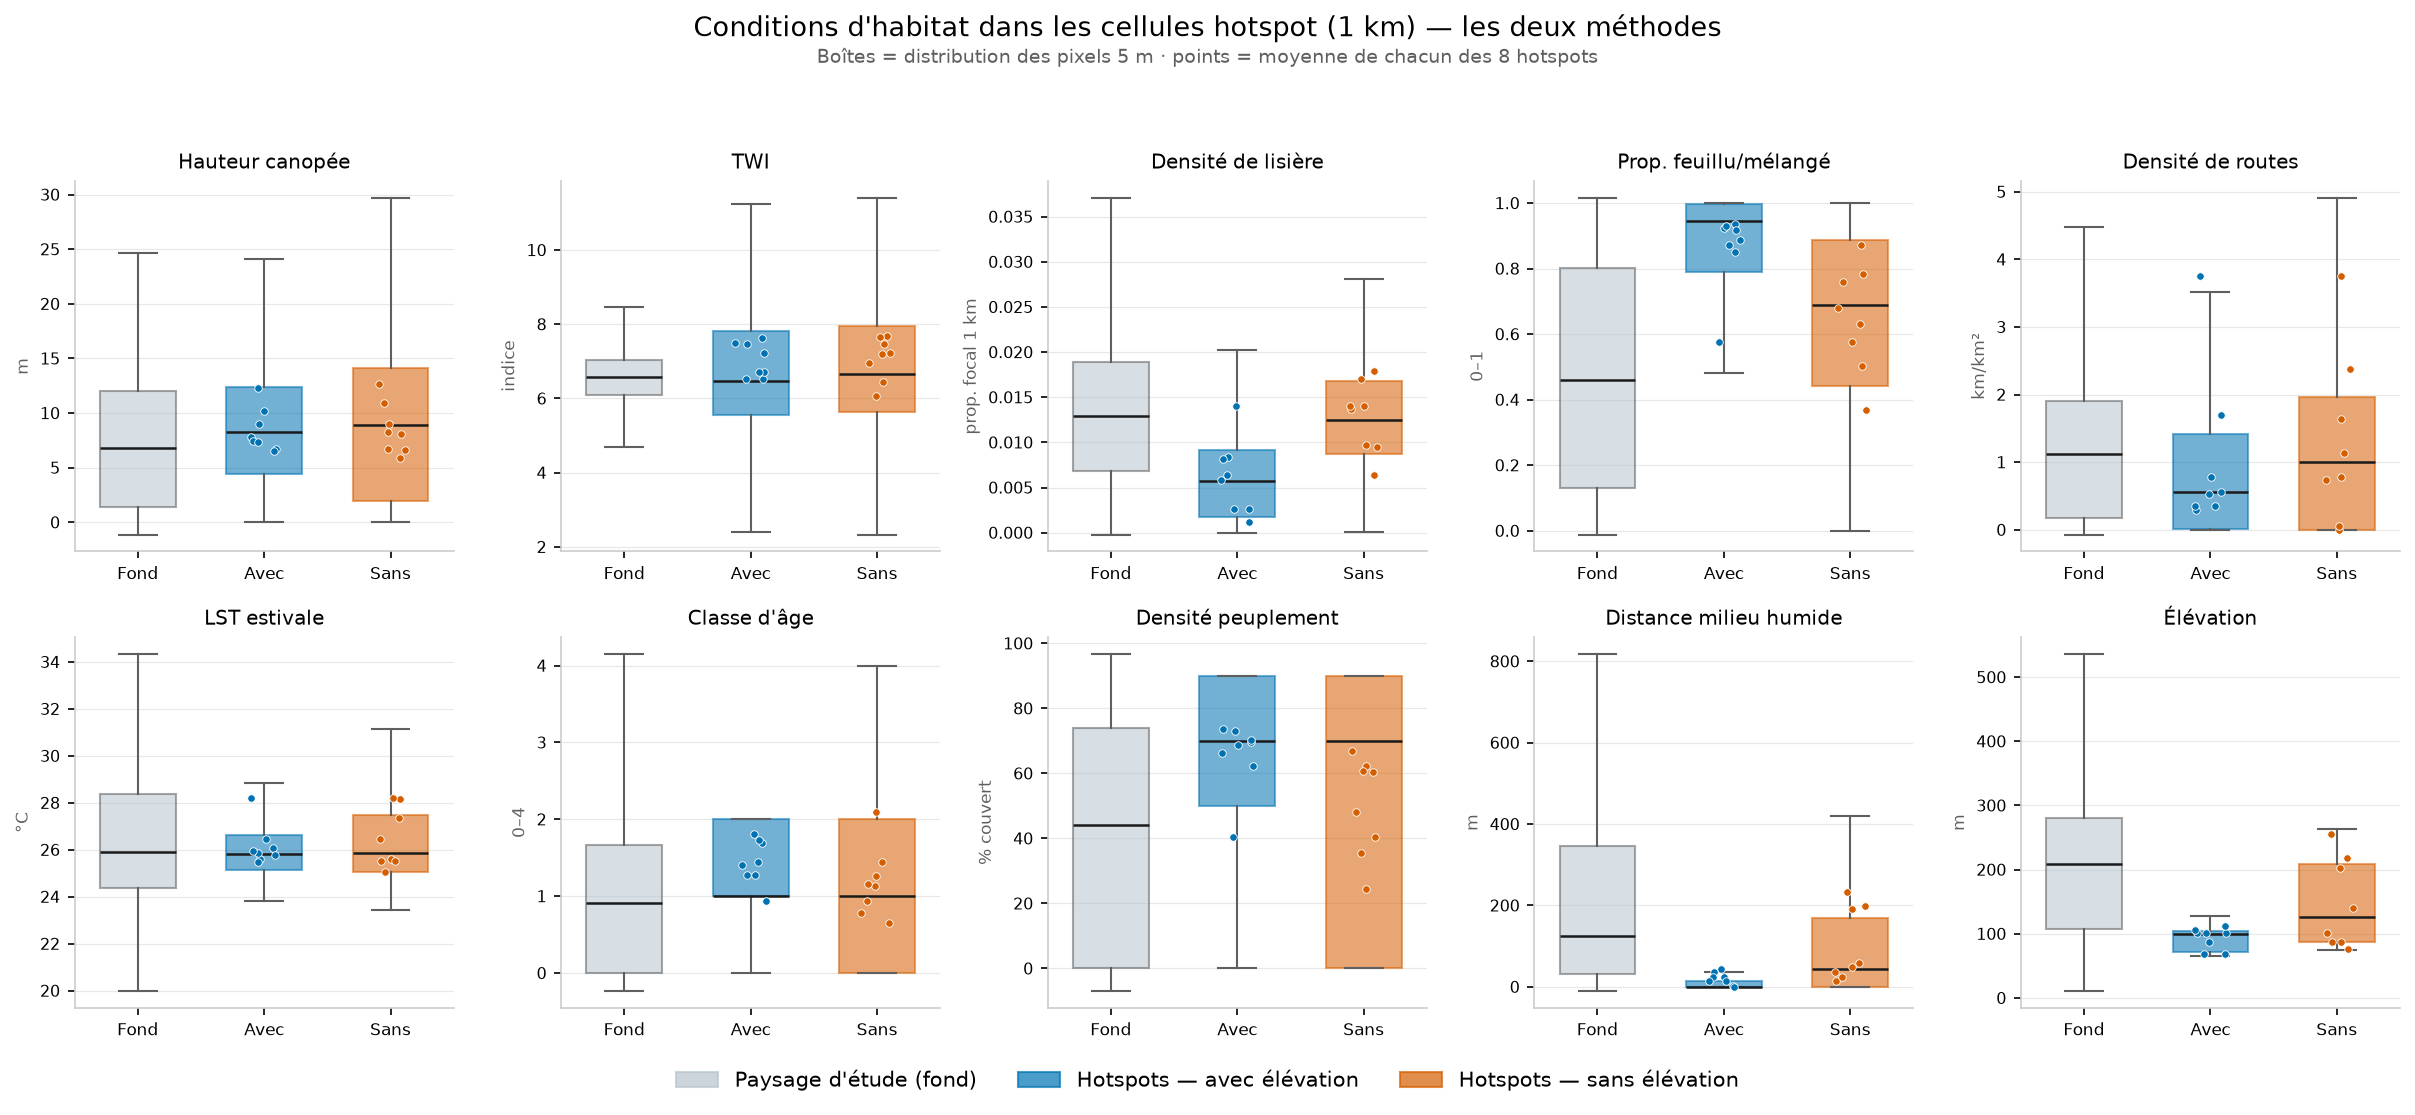
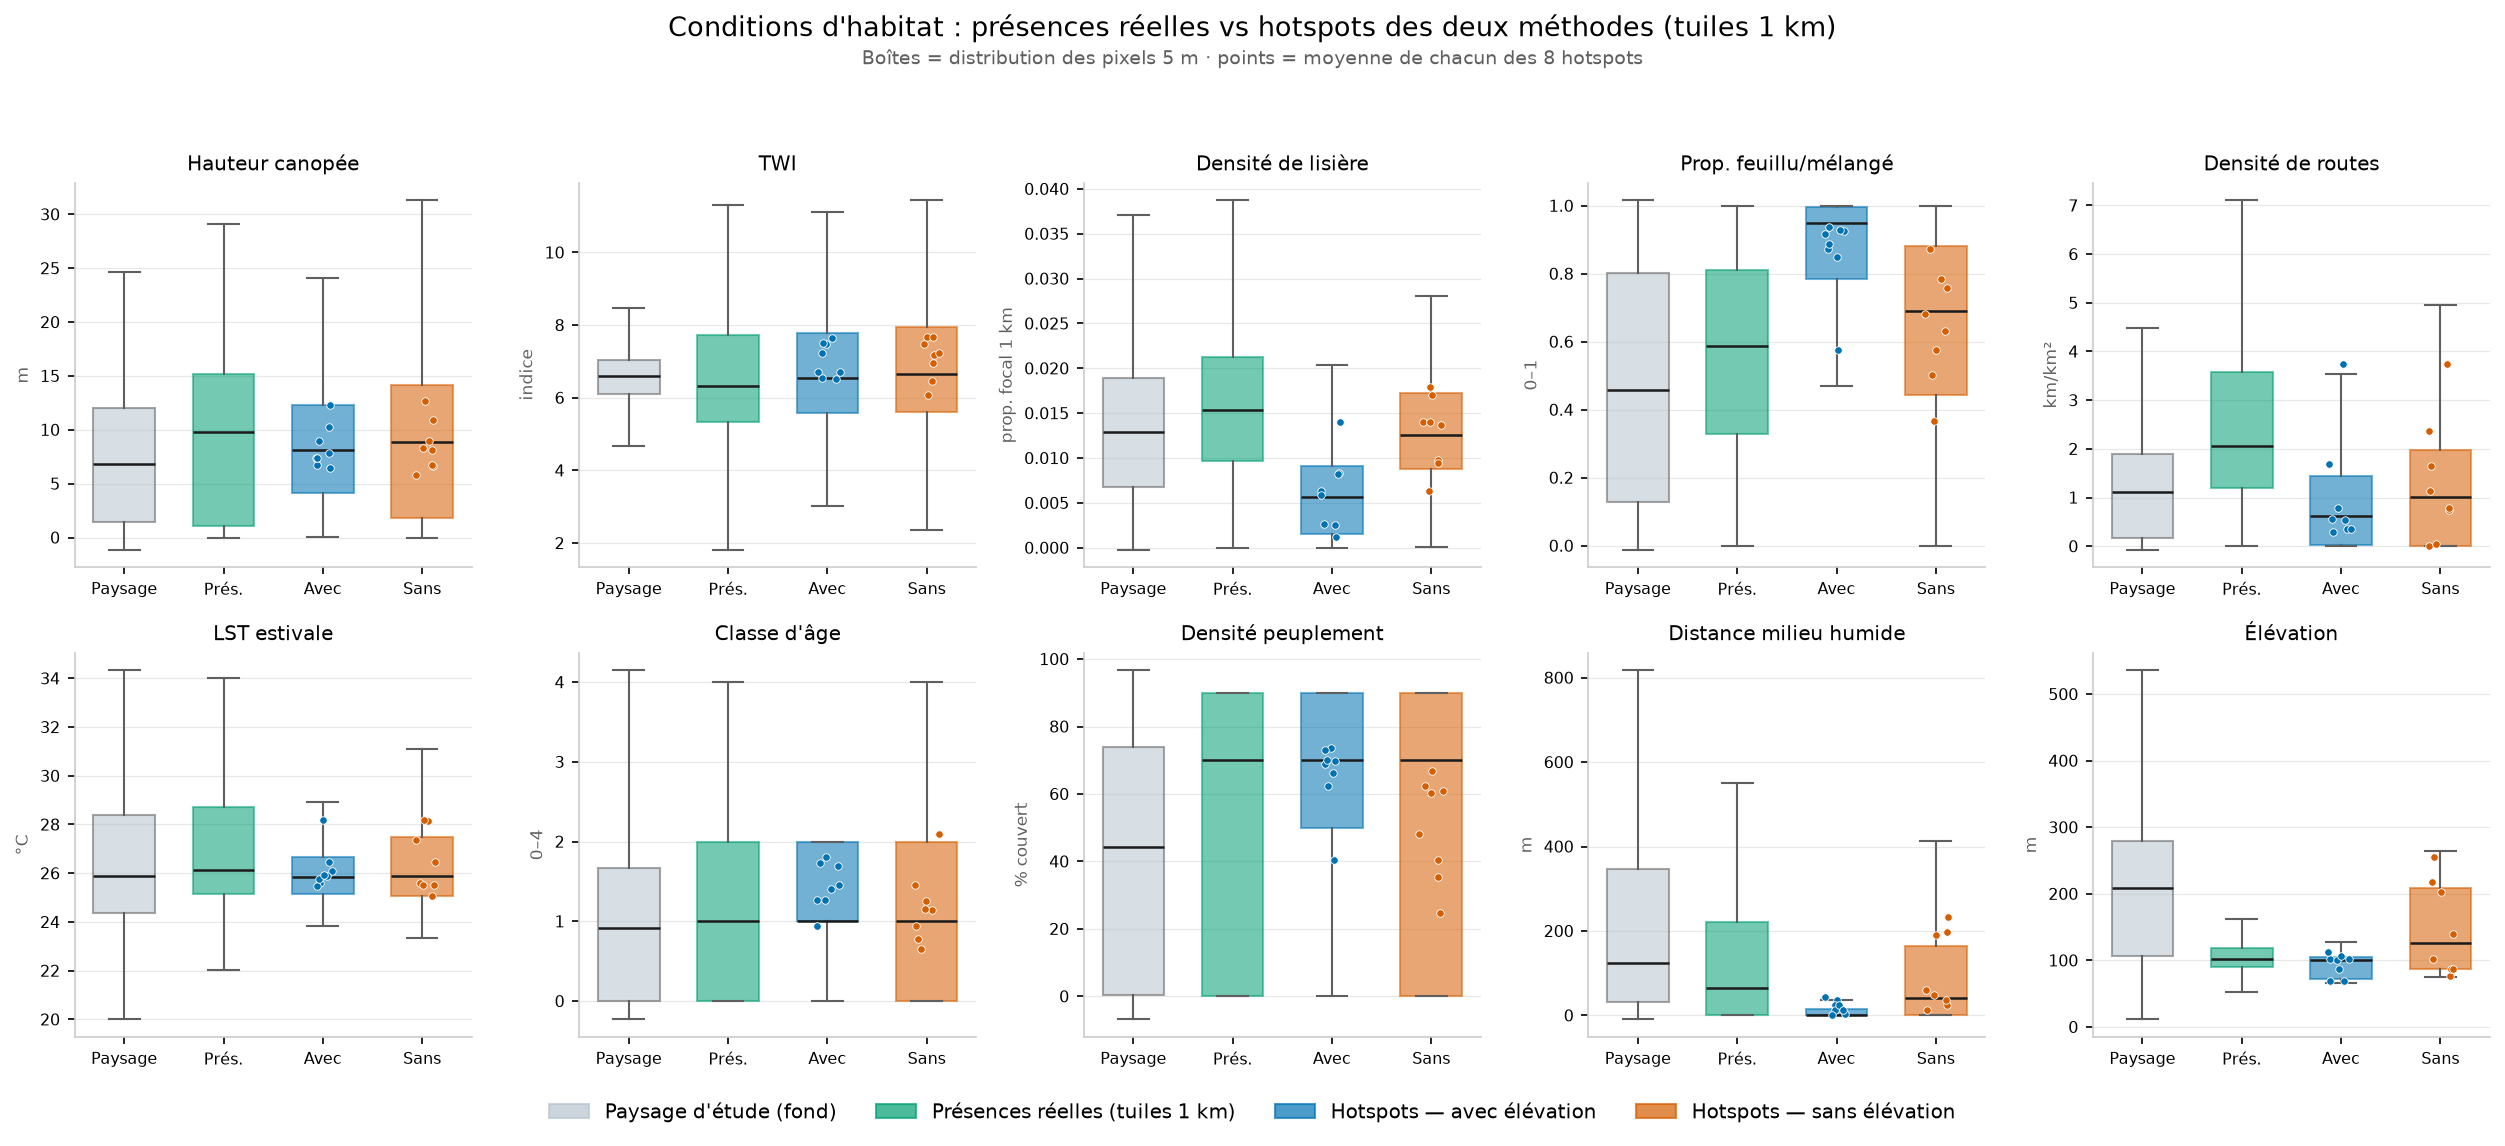
feat(figures): ancrage des hotspots sur les présences réelles (gabarit 1 km)
Ajoute une référence « présences réelles » aux figures d'habitat des hotspots :
les 148 présences du modèle (table_modele.parquet) sont ré-extraites en tuiles
1 km centrées — même gabarit que les cellules hotspot — pour une comparaison à
échelle égale.

- Fig 1 (profil standardisé) : profil des présences en losange (cible) + écart
  moyen de chaque modèle au profil réel (avec 0,51 σ · sans 0,26 σ).
- Fig 2 (distributions) : 4 groupes Paysage · Présences · Avec · Sans.
- Rapport JSON enrichi (n_presences, ecart_moyen_au_profil_presences_sigma).

Constat : les hotspots « sans élévation » sont ~2× plus proches de l'habitat
réel des observations ; « avec » surexprime feuillu / couvert / proximité aux
milieux humides et rate la densité de lisière. Réserve : présences = données
d'entraînement → comparaison relative avec/sans, pas validation indépendante.

diff --git a/code/09_figures_hotspots.py b/code/09_figures_hotspots.py
@@ -31,9 +31,11 @@ log = logging.getLogger("09_figures_hotspots")
 
 # ── Palette colorblind-safe (Okabe-Ito) — cohérente avec 08_figures_rapport ──
 C_AVEC, C_SANS, C_FOND = "#0072B2", "#D55E00", "#B7C4CE"
+C_PRES = "#009E73"                              # présences réelles (Okabe-Ito bleu-vert)
 INK, MUTED, GRID = "#1a1a1a", "#5f5f5f", "#e8e8e8"
 
 STACK = RACINE / "data/processed/stack_5m.tif"
+TABLE = RACINE / "data/processed/table_modele.parquet"
 BANDS = ["MHC_hauteur_canopee", "TWI", "densite_lisiere", "prop_feuillu_melange",
          "densite_routes", "LST_estivale", "classe_age", "densite_peuplement",
          "distance_milieu_humide", "elevation"]
@@ -101,6 +103,32 @@ def _extraire_cellules(gpkg: Path) -> tuple[np.ndarray, np.ndarray, list[dict]]:
     return np.asarray(moyennes), np.hstack(pools), meta
 
 
+def _extraire_points(xy: list[tuple[float, float]], taille_m: float = 1000.0
+                     ) -> tuple[np.ndarray, np.ndarray]:
+    """Habitat dans une tuile centrée (`taille_m`) autour de chaque observation réelle.
+
+    Même gabarit que les cellules hotspot → comparaison à gabarit égal. Retourne les
+    moyennes par point (n_pts, n_bande) et le pool de pixels valides.
+    """
+    import rasterio
+    from rasterio.windows import from_bounds
+    half = taille_m / 2
+    moyennes, pools = [], []
+    with rasterio.open(STACK) as src:
+        for x, y in xy:
+            win = from_bounds(x - half, y - half, x + half, y + half, transform=src.transform)
+            win = win.round_lengths().round_offsets()
+            arr = src.read(window=win, boundless=True, fill_value=np.nan)
+            arr = arr.astype("float32").reshape(len(BANDS), -1)
+            val = np.isfinite(arr).all(axis=0)
+            if not val.any():
+                continue
+            px = arr[:, val]
+            moyennes.append(px.mean(axis=1))
+            pools.append(px)
+    return np.asarray(moyennes), np.hstack(pools)
+
+
 def _sous_ech(px: np.ndarray, n: int = 6000) -> np.ndarray:
     """Sous-échantillonne les colonnes (pixels) d'un pool (n_bandes, N) à n colonnes."""
     if px.shape[1] <= n:
@@ -110,81 +138,96 @@ def _sous_ech(px: np.ndarray, n: int = 6000) -> np.ndarray:
 
 # ── Fig 1 — Profil d'habitat standardisé (écart au paysage, z-scores) ─────────
 
-def fig_profil(cells: dict, bg_mu: np.ndarray, bg_sd: np.ndarray, sortie: Path) -> None:
-    """Barres divergentes : écart-type au paysage de chaque variable, avec vs sans (± SE inter-cellules)."""
-    z = {m: (cells[m] - bg_mu) / bg_sd for m in ("avec", "sans")}      # (n_cell, n_bande)
+def fig_profil(cells: dict, bg_mu: np.ndarray, bg_sd: np.ndarray, sortie: Path) -> dict:
+    """Barres divergentes avec/sans + cible « présences réelles » (losange). Retourne les distances au profil réel."""
+    from matplotlib.lines import Line2D
+    z = {m: (cells[m] - bg_mu) / bg_sd for m in cells}                 # (n_unit, n_bande)
     mu = {m: z[m].mean(axis=0) for m in z}
     se = {m: z[m].std(axis=0, ddof=1) / np.sqrt(z[m].shape[0]) for m in z}
-    ordre = np.argsort(np.maximum(np.abs(mu["avec"]), np.abs(mu["sans"])))  # croissant → haut = fort
+    ordre = np.argsort(np.abs(mu["pres"]))                            # croissant → haut = signal réel fort
     labels = [f"{ETIQ[BANDS[i]][0]}" for i in ordre]
+    dist = {m: float(np.mean(np.abs(mu[m] - mu["pres"]))) for m in ("avec", "sans")}
 
     y, h = np.arange(len(ordre)), 0.36
-    fig, ax = plt.subplots(figsize=(9.4, 6.4))
+    fig, ax = plt.subplots(figsize=(9.8, 6.6))
     xmax = 0.0
-    for m, coul, lab, dy in [("avec", C_AVEC, "Avec élévation", h / 2),
-                             ("sans", C_SANS, "Sans élévation", -h / 2)]:
+    for m, coul, lab, dy in [("avec", C_AVEC, "Hotspots avec élévation", h / 2),
+                             ("sans", C_SANS, "Hotspots sans élévation", -h / 2)]:
         vals, errs = mu[m][ordre], se[m][ordre]
         ax.barh(y + dy, vals, h, xerr=errs, color=coul, label=lab,
                 error_kw={"elinewidth": 1.0, "ecolor": MUTED, "capsize": 2.5})
         for yi, v, e in zip(y + dy, vals, errs):                        # valeur hors moustache
-            dx = e + 0.10
+            dx = e + 0.12
             ax.text(v + dx if v >= 0 else v - dx, yi, f"{v:+.1f}", va="center",
-                    ha="left" if v >= 0 else "right", fontsize=7.6, color=INK)
+                    ha="left" if v >= 0 else "right", fontsize=7.4, color=INK)
             xmax = max(xmax, abs(v) + e)
+    # Présences réelles = cible (losange + barre d'erreur), même standardisation
+    vp, ep = mu["pres"][ordre], se["pres"][ordre]
+    ax.errorbar(vp, y, xerr=ep, fmt="D", color=C_PRES, markersize=6.5, markeredgecolor="white",
+                markeredgewidth=0.6, ecolor=C_PRES, elinewidth=1.1, capsize=2.5, zorder=5)
+    xmax = max(xmax, float(np.max(np.abs(vp) + ep)))
     ax.axvline(0, color=MUTED, lw=1.0)
     ax.set_yticks(y)
     ax.set_yticklabels(labels, fontsize=9)
-    ax.set_xlim(-xmax * 1.30, xmax * 1.30)
+    ax.set_xlim(-xmax * 1.32, xmax * 1.32)
     ax.set_xlabel("Écart au paysage d'étude  (nombre d'écarts-types ; 0 = moyenne du territoire)")
-    ax.set_title("Signature d'habitat des hotspots — avec vs sans élévation", fontsize=11.5)
+    ax.set_title("Habitat des hotspots vs présences réelles — avec vs sans élévation", fontsize=11.5)
     ax.set_axisbelow(True)
     ax.grid(axis="x", color=GRID, linewidth=0.7)
     _sans_cadre(ax)
-    ax.legend(loc="lower right", frameon=False, fontsize=9.5)
-    fig.text(0.5, -0.015, "Barre = écart moyen des 8 hotspots au paysage · moustache = erreur-type "
-             "inter-hotspots · variables triées par écart maximal", ha="center", fontsize=8,
-             color=MUTED)
+    handles = [plt.Rectangle((0, 0), 1, 1, color=C_AVEC), plt.Rectangle((0, 0), 1, 1, color=C_SANS),
+               Line2D([0], [0], marker="D", color="none", markerfacecolor=C_PRES,
+                      markeredgecolor="white", markersize=8)]
+    ax.legend(handles, ["Hotspots avec élévation", "Hotspots sans élévation",
+                        f"Présences réelles (n={cells['pres'].shape[0]})"],
+              loc="lower right", frameon=False, fontsize=9)
+    plus_proche = "avec" if dist["avec"] < dist["sans"] else "sans"
+    fig.text(0.5, -0.02, f"Losange = profil des présences réelles (cible) · écart moyen au profil réel : "
+             f"avec {dist['avec']:.2f} σ · sans {dist['sans']:.2f} σ  →  « {plus_proche} » plus proche · "
+             "tuiles 1 km, variables triées par signal réel", ha="center", fontsize=8, color=MUTED)
     fig.tight_layout()
     fig.savefig(sortie, bbox_inches="tight")
     plt.close(fig)
-    log.info("  écrit %s", sortie.name)
+    log.info("  écrit %s (écart avec=%.2f σ, sans=%.2f σ)", sortie.name, dist["avec"], dist["sans"])
+    return dist
 
 
-# ── Fig 2 — Distributions par variable (fond · avec · sans) ───────────────────
+# ── Fig 2 — Distributions par variable (paysage · présences · avec · sans) ────
 
 def fig_distributions(cells: dict, pools: dict, bg: np.ndarray, sortie: Path) -> None:
-    """Petits multiples : boxplot des pixels (fond/avec/sans) + moyennes par hotspot (points)."""
-    ech = {"Fond": _sous_ech(bg), "avec": _sous_ech(pools["avec"]), "sans": _sous_ech(pools["sans"])}
-    fig, axes = plt.subplots(2, 5, figsize=(16.2, 7.2))
+    """Petits multiples : boxplot des pixels (paysage/présences/avec/sans) + moyennes par hotspot."""
+    grp = [("Fond", C_FOND, bg), ("pres", C_PRES, pools["pres"]),
+           ("avec", C_AVEC, pools["avec"]), ("sans", C_SANS, pools["sans"])]
+    ech = {nom: _sous_ech(px) for nom, _, px in grp}
+    pos = {"Fond": 1, "pres": 2, "avec": 3, "sans": 4}
+    fig, axes = plt.subplots(2, 5, figsize=(16.8, 7.4))
     for k, (ax, b) in enumerate(zip(axes.ravel(), BANDS)):
-        donnees = [ech["Fond"][k], ech["avec"][k], ech["sans"][k]]
-        bp = ax.boxplot(donnees, positions=[1, 2, 3], widths=0.6, patch_artist=True,
+        donnees = [ech[nom][k] for nom, _, _ in grp]
+        bp = ax.boxplot(donnees, positions=list(pos.values()), widths=0.62, patch_artist=True,
                         showfliers=False, medianprops={"color": INK, "lw": 1.2},
                         whiskerprops={"color": MUTED}, capprops={"color": MUTED})
-        for patch, coul in zip(bp["boxes"], [C_FOND, C_AVEC, C_SANS]):
+        for patch, (_, coul, _) in zip(bp["boxes"], grp):
             patch.set_facecolor(coul)
             patch.set_edgecolor(MUTED if coul == C_FOND else coul)
             patch.set_alpha(0.55)
-        for pos, m, coul in [(2, "avec", C_AVEC), (3, "sans", C_SANS)]:   # moyennes par hotspot
+        for m, coul in [("avec", C_AVEC), ("sans", C_SANS)]:              # moyennes par hotspot
             pts = cells[m][:, k]
-            ax.scatter(np.full(pts.shape, pos) + RNG.uniform(-0.13, 0.13, pts.shape), pts,
+            ax.scatter(np.full(pts.shape, pos[m]) + RNG.uniform(-0.13, 0.13, pts.shape), pts,
                        s=13, color=coul, edgecolor="white", linewidth=0.4, zorder=3)
         nom, unite = ETIQ[b]
         ax.set_title(nom, fontsize=9.8)
         ax.set_ylabel(unite, fontsize=8, color=MUTED)
-        ax.set_xticks([1, 2, 3])
-        ax.set_xticklabels(["Fond", "Avec", "Sans"], fontsize=8.2)
+        ax.set_xticks(list(pos.values()))
+        ax.set_xticklabels(["Paysage", "Prés.", "Avec", "Sans"], fontsize=7.8)
         ax.tick_params(axis="y", labelsize=7.6)
         ax.set_axisbelow(True)
         ax.grid(axis="y", color=GRID, linewidth=0.6)
         _sans_cadre(ax)
-    handles = [plt.Rectangle((0, 0), 1, 1, color=C_FOND, alpha=0.7),
-               plt.Rectangle((0, 0), 1, 1, color=C_AVEC, alpha=0.7),
-               plt.Rectangle((0, 0), 1, 1, color=C_SANS, alpha=0.7)]
-    fig.legend(handles, ["Paysage d'étude (fond)", "Hotspots — avec élévation",
-                         "Hotspots — sans élévation"], loc="lower center", ncol=3,
-               frameon=False, fontsize=10, bbox_to_anchor=(0.5, -0.015))
-    fig.suptitle("Conditions d'habitat dans les cellules hotspot (1 km) — les deux méthodes",
+    handles = [plt.Rectangle((0, 0), 1, 1, color=c, alpha=0.7) for _, c, _ in grp]
+    fig.legend(handles, ["Paysage d'étude (fond)", "Présences réelles (tuiles 1 km)",
+                         "Hotspots — avec élévation", "Hotspots — sans élévation"],
+               loc="lower center", ncol=4, frameon=False, fontsize=9.5, bbox_to_anchor=(0.5, -0.015))
+    fig.suptitle("Conditions d'habitat : présences réelles vs hotspots des deux méthodes (tuiles 1 km)",
                  fontsize=13, y=1.0)
     fig.text(0.5, 0.955, "Boîtes = distribution des pixels 5 m · points = moyenne de chacun "
              "des 8 hotspots", ha="center", fontsize=9, color=MUTED)
@@ -262,19 +305,29 @@ def main() -> None:
                 meta[m][i]["elev"] = float(cells[m][i, i_elev])
             log.info("  %s : %d hotspots · %d px poolés", m, cells[m].shape[0], pools[m].shape[1])
 
-    with utils.log_step("Fig 1 — profil d'habitat standardisé", log):
-        fig_profil(cells, bg_mu, bg_sd, comp / "hotspots_profil_habitat.png")
+    with utils.log_step("Extraction autour des présences réelles (tuiles 1 km)", log):
+        import polars as pl
+        dfp = pl.read_parquet(TABLE).filter(pl.col("presence") == 1)
+        xy = list(zip(dfp["x"].to_list(), dfp["y"].to_list()))
+        cells["pres"], pools["pres"] = _extraire_points(xy, taille_m=1000.0)
+        log.info("  %d présences · %d px poolés", cells["pres"].shape[0], pools["pres"].shape[1])
+
+    with utils.log_step("Fig 1 — profil d'habitat standardisé (vs présences)", log):
+        dist = fig_profil(cells, bg_mu, bg_sd, comp / "hotspots_profil_habitat.png")
     with utils.log_step("Fig 2 — distributions par variable", log):
         fig_distributions(cells, pools, bg, comp / "hotspots_distributions.png")
     with utils.log_step("Fig 3 — carte des hotspots sur l'élévation", log):
         fig_carte(meta, comp / "hotspots_carte_elevation.png")
 
     rapport = {
-        "n_hotspots": {m: int(cells[m].shape[0]) for m in cells},
+        "n_hotspots": {m: int(cells[m].shape[0]) for m in ("avec", "sans")},
+        "n_presences": int(cells["pres"].shape[0]),
         "elevation_moy_m": {m: round(float(np.mean([d["elev"] for d in meta[m]])), 1)
                             for m in meta},
         "elevation_std_m": {m: round(float(np.std([d["elev"] for d in meta[m]])), 1)
                             for m in meta},
+        "ecart_moyen_au_profil_presences_sigma": {m: round(dist[m], 3) for m in dist},
+        "modele_plus_proche_des_presences": min(dist, key=dist.get),
         "moyennes_habitat": {m: {BANDS[k]: round(float(cells[m][:, k].mean()), 3)
                                  for k in range(len(BANDS))} for m in cells},
         "figures": ["hotspots_profil_habitat.png", "hotspots_distributions.png",

diff --git a/README.md b/README.md
@@ -85,7 +85,7 @@ flowchart TD
 | `05_figures.py` | Cartes, importance, PDP, SHAP, métriques CV, QC LST | PNG exports |
 | `06_` · `07_…elevation.py` | Exploration du rôle de l'élévation (retrait / résidualisation) + figures inter-méthodes | PNG + métriques |
 | `08_figures_rapport.py` | Figures de synthèse : performance des 4 configs, dominance de la détection, ROC par fold, entonnoir eBird, diagrammes de pipeline | PNG exports |
-| `09_figures_hotspots.py` | Caractéristiques d'habitat des hotspots (avec vs sans élévation) : profil standardisé, distributions par variable, carte sur l'élévation | PNG exports |
+| `09_figures_hotspots.py` | Habitat des hotspots (avec vs sans élévation) comparé aux **présences réelles** (tuiles 1 km) : profil standardisé, distributions, carte sur l'élévation | PNG exports |
 
 ## Librairies principales (ou stack)
 Projet Python géré avec **`uv`** (`pyproject.toml` + `uv.lock` versionné pour la reproductibilité).
